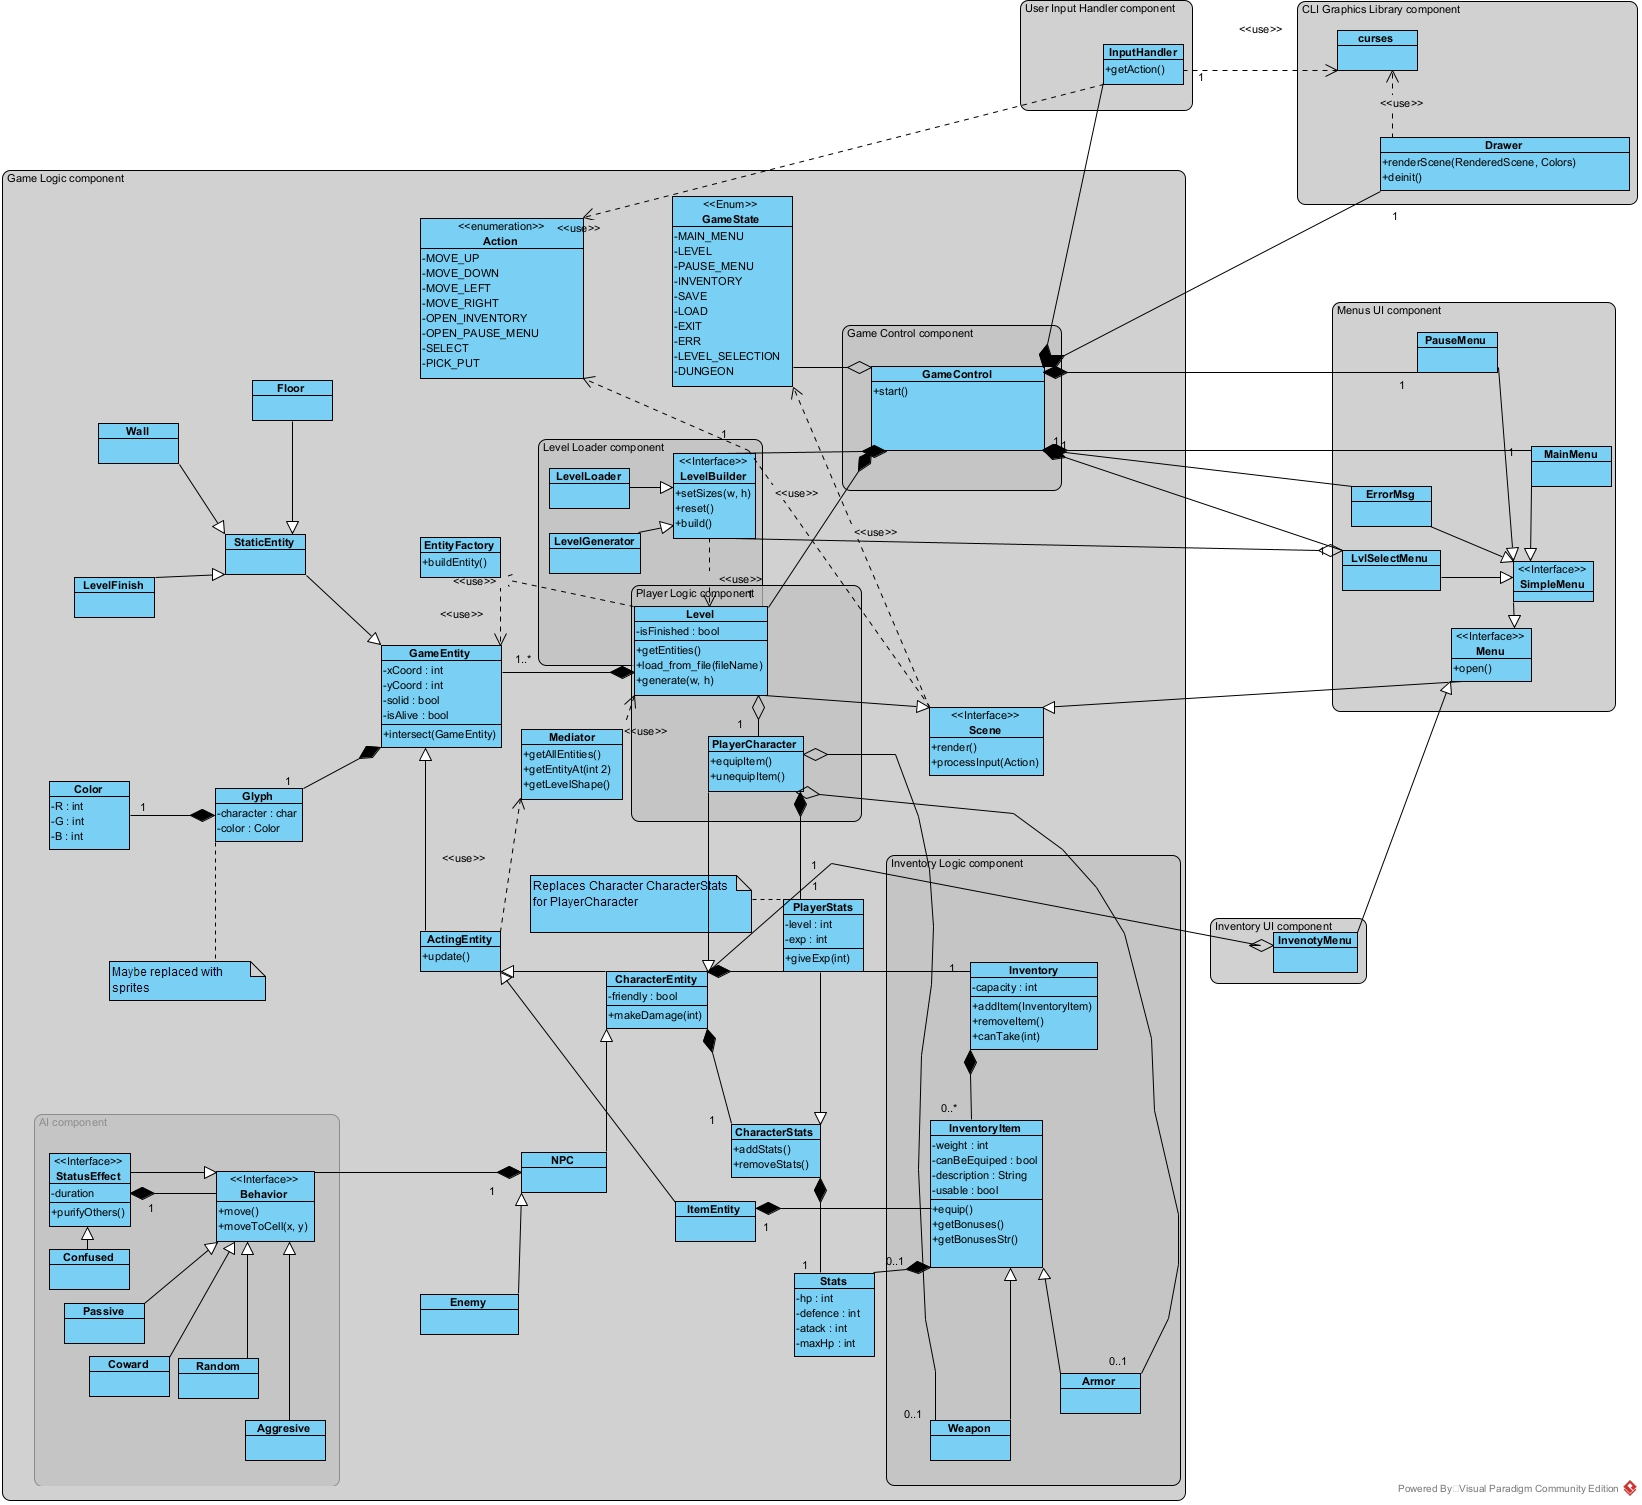
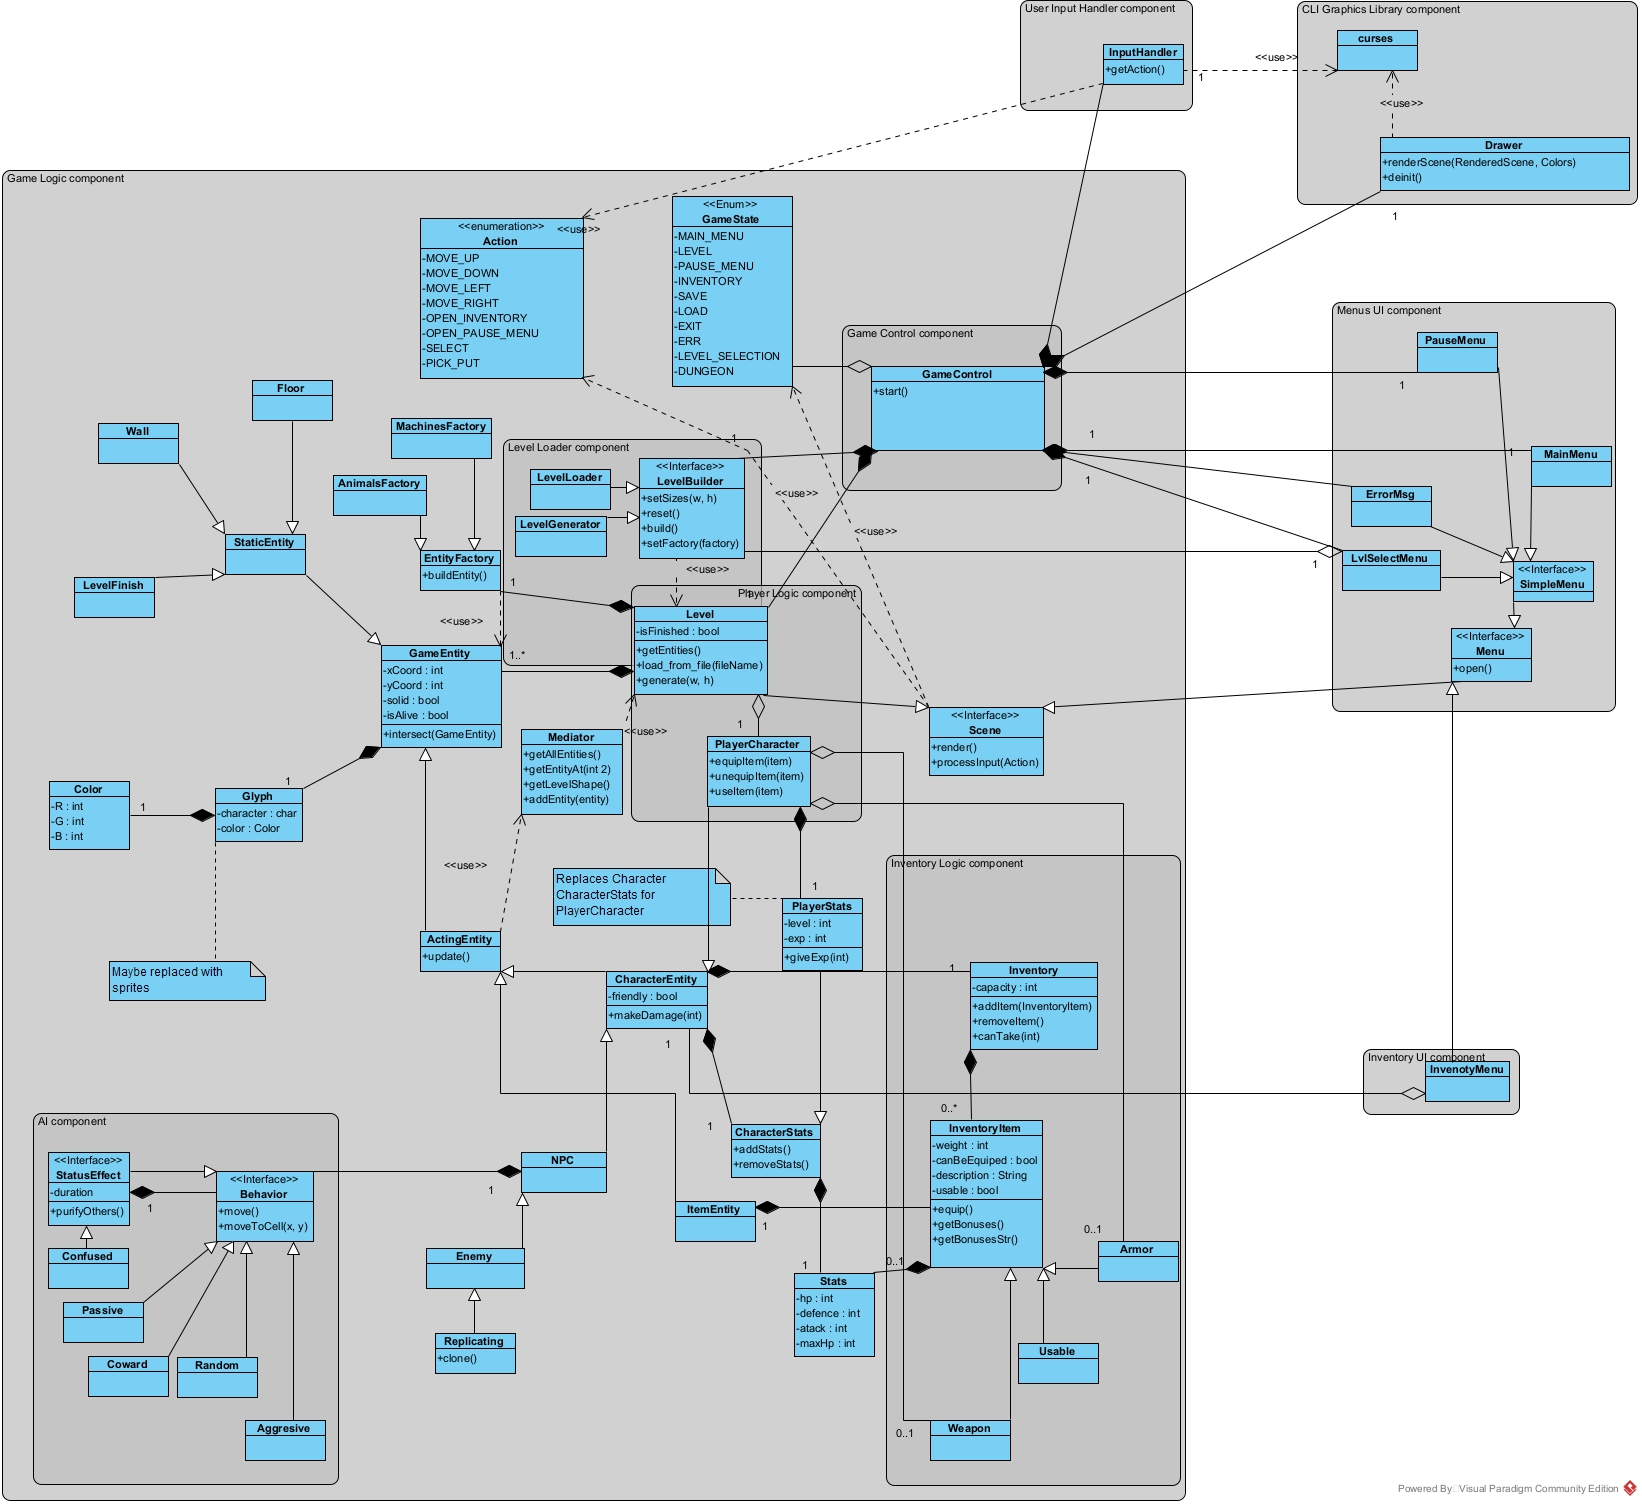
Update architecture

diff --git a/Roguelike/ARCHITECTURE.md b/Roguelike/ARCHITECTURE.md
@@ -169,7 +169,7 @@ RGB представление цвета.
 
 ### PlayerCharacter
 Наследник `CharacterEntity`, представляющий из себя персонажа игрока. Отличается в замене `CharacterStats` 
-на `PlayerStats`.  Может снимать и надевать предметы за что отвечают методы `euipItem`, `unequipItem`. 
+на `PlayerStats`.  Может использовать снимать и надевать предметы за что отвечают методы `useItem`, `equipItem`, `unequipItem`. 
 Содержит в себе ссылки на экипированные предметы (сейчас оружие и броня).
 
 ### NPC
@@ -179,8 +179,11 @@ RGB представление цвета.
 Наследник `NPC`. Базовый класс для врагов. Они могут атаковать игрока и быть атакованы им. Далее от него наследуются уже 
 конкретные враги.
 
+### Replicating 
+Наследник `Enemy`. Реплицирующаяся сущность, реализующая паттерн прототип. 
+
 ### EntityFactory
-Набор методов для создания нужных сущностей.
+Абстрактная фабрика для создания нужных сущностей. Наследники умеют создавать существ по обределенной тематике. Паттерн абстрактная фабрика. 
 
 ### Scene
 Интерфейс, наследники которого умеют представлять себя в формате необходимом для вывода на экран (`render`) и 
@@ -219,7 +222,7 @@ RGB представление цвета.
 какие-то условия).
 
 ### LevelBuilder
-Интрефейс отвечающий за строительство уровней (паттерн строитель)
+Интрефейс отвечающий за строительство уровней. Паттерн строитель.
 
 ### LevelLoader
 Наследник `LevelBuilder`. Умеет грузить следующий уровень из файла по запросу.
@@ -228,7 +231,7 @@ RGB представление цвета.
 Наследник `LevelGenerator`. Случайно генерирует уровни.
 
 ### Mediator
-Посредник, повзоляющий действующим сущностям `ActingEntity` получать информацию о другиъ сущностях, которые находятся на уровне.
+Посредник, повзоляющий действующим сущностям `ActingEntity` получать информацию о другиъ сущностях, которые находятся на уровне. Позволяет размещать новые сущности.
 
 ### FrameBuilder
 Класс отвечающий за отрисовку сцены. Пока никаких подробностей нет, т.к. зависит от выбранной библиотеки.
